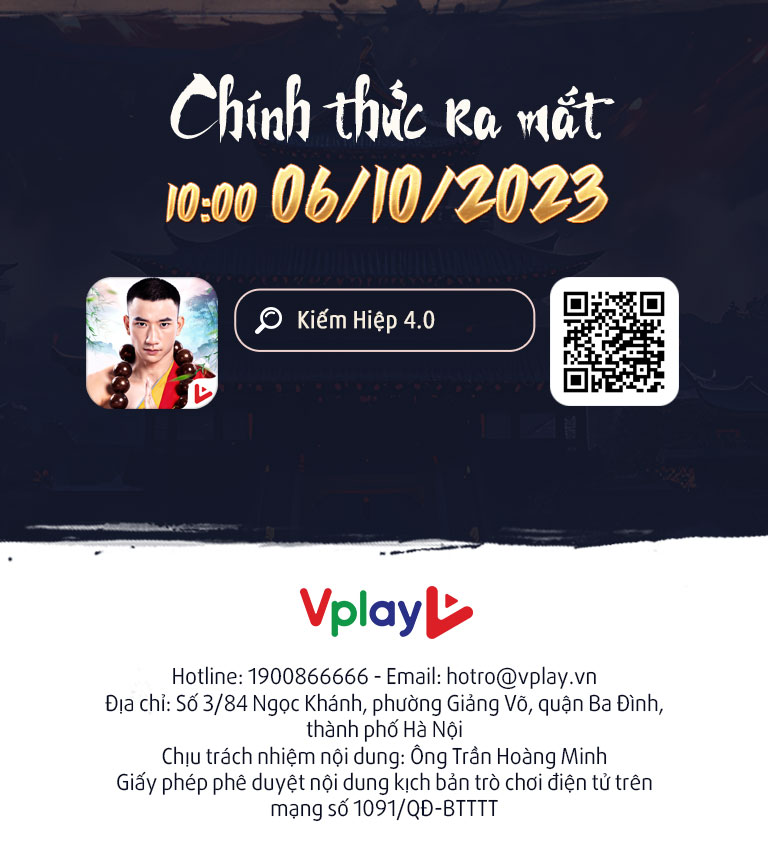
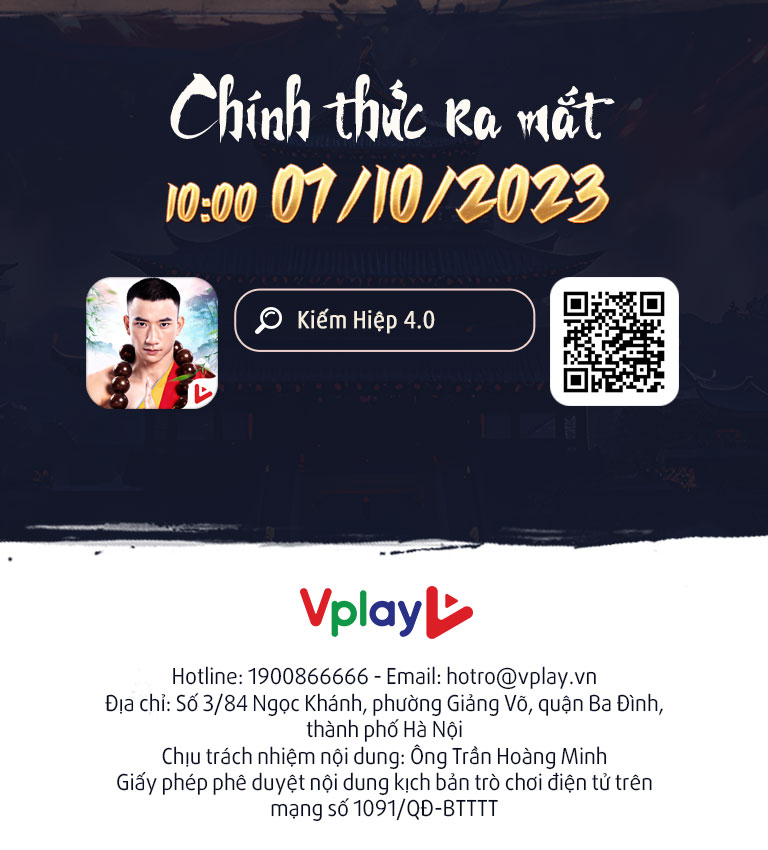
Minor updates

Changed region(s): [[0.375, 0.1835, 0.8125, 0.2753]]

diff --git a/sass/KH-LP-0823-mb.css b/sass/KH-LP-0823-mb.css
@@ -466,71 +466,82 @@ main {
   display: block;
 }
 
-.modal-dksom .modal-dialog {
-  max-width: 728px;
-  width: calc(728px * var(--ratio));
-  height: calc(689px * var(--ratio));
-}
-.modal-dksom .modal-dialog .modal-content {
-  background: url(../images/New/Page-4-Popup-DangKySom.png) no-repeat top center;
-  background-size: contain;
-  width: calc(728px * var(--ratio));
-  height: calc(689px * var(--ratio));
-}
-.modal-dksom .modal-dialog .modal-content .btn-primary {
-  background-color: transparent;
+.modal-dksom .modal-content {
+  background: url(../images/Floatbar/Float-Bar-Popup-BG.png) no-repeat top center;
   border: none;
-  width: calc(356px * var(--ratio));
-  height: calc(130px * var(--ratio));
-  box-shadow: none;
-}
-.modal-dksom .modal-dialog .modal-content .col-submit {
+  height: 471px;
+  width: 1200px;
+  margin: 0 auto;
   position: relative;
-  top: 8%;
-  right: 35%;
 }
-.modal-dksom .modal-dialog .modal-content .close {
-  background: url(../images/New/Page-4-btn-Close.png) no-repeat top center;
-  background-size: contain;
-  width: calc(56px * var(--ratio));
-  height: calc(53px * var(--ratio));
-  top: calc(50px * var(--ratio));
-  right: calc(60px * var(--ratio));
-}
-.modal-dksom .modal-dialog .modal-content .container {
-  margin: 0;
-  padding: 0;
-  margin-left: calc(304px * var(--ratio));
-  margin-top: calc(199px * var(--ratio));
-  width: calc(340px * var(--ratio));
-  height: calc(420px * var(--ratio));
-}
-.modal-dksom .modal-dialog .modal-content .row {
-  margin: 0;
-  height: calc(60px * var(--ratio));
-  margin-bottom: calc(20px * var(--ratio));
-}
-.modal-dksom .modal-dialog .modal-content .row .col-auto {
-  padding: 0;
-  width: 100%;
-}
-.modal-dksom .modal-dialog .modal-content .row input {
-  padding: 0;
-  margin-top: calc(13px * var(--ratio));
-  height: 100%;
-  width: 100%;
-  font-size: calc(37px * var(--ratio));
+.modal-dksom .modal-content .modal-body .close {
+  position: absolute;
+  top: -10px;
+  right: 20px;
+  width: 85px;
+  height: 85px;
+  background: url(../images/Floatbar/Float-Bar-Popup-Btn-Close.png) no-repeat top center;
   border: none;
+}
+.modal-dksom .modal-content .modal-body .content-dksom {
+  text-align: center;
+}
+.modal-dksom .modal-content .modal-body .content-dksom h4 {
+  font-size: 30px;
+  color: #101a66;
+  font-weight: 700;
+  text-transform: uppercase;
+}
+.modal-dksom .modal-content .modal-body .content-dksom h6 {
+  color: #101a66;
+  font-size: 22px;
+}
+.modal-dksom .modal-content .modal-body .content-dksom input {
+  border: 2px solid #101a66;
+  color: #101a66;
   background: transparent;
+  width: 80%;
+  margin: 0 auto;
+  height: 61px;
+  border-radius: 10px;
 }
-.modal-dksom .modal-dialog .modal-content .row-name {
-  padding-left: calc(15px * var(--ratio));
+.modal-dksom .modal-content .modal-body .content-dksom p {
+  font-size: 18px;
+  line-height: 1.6;
+  font-weight: 500;
+  color: #101a66;
 }
-.modal-dksom .modal-dialog .modal-content .row-phone {
-  margin-left: calc(-70px * var(--ratio));
+.modal-dksom .modal-content .modal-body .content-dksom table {
+  font-size: 18px;
+  line-height: 1.6;
+  font-weight: 500;
+  color: #101a66;
 }
-.modal-dksom .modal-dialog .modal-content .row-email {
-  margin-left: calc(-52px * var(--ratio));
+.modal-dksom .modal-content .modal-body .content-dksom .btn {
+  margin: 0 auto;
+  background: #101a66;
+  color: white;
+  font-weight: 700;
+  font-size: 24px;
+  margin-top: 0.5rem;
+  position: relative;
+}
+.modal-dksom .modal-content .modal-body .content-dksom .btn span.textsub {
+  position: absolute;
+  top: 50%;
+  left: 50%;
+  transform: translate(-50%, -50%);
+  color: white;
+  text-shadow: 1px 1px 2px #cc2717, 0px 0px 6px #81170d;
+  text-transform: uppercase;
+}
+.modal-dksom .modal-content .modal-body .content-dksom .btn-dangky {
+  background: transparent;
+  border: none;
+  transition: all 0.3s ease-in-out;
+}
+.modal-dksom .modal-content .modal-body .content-dksom .btn-dangky:hover {
+  filter: brightness(120%);
 }
 
 .modal-thele .modal-dialog {

diff --git a/sass/KH-LP-0823-mb.scss b/sass/KH-LP-0823-mb.scss
@@ -344,97 +344,26 @@ main {position: relative;}
   }
 }
 
-.modal-dksom
-{
-  .modal-dialog
-  {
-    max-width: 728px;
-    width: calc(728px * var(--ratio));
-    height: calc(689px * var(--ratio));
-
-    .modal-content
-    {
-    background: url(../images/New/Page-4-Popup-DangKySom.png) no-repeat top center;
-    background-size: contain;
-    width: calc(728px * var(--ratio));
-    height: calc(689px * var(--ratio));
-
-      .btn-primary
-      {
-        background-color: transparent;
-        border: none;
-        width: calc(356px * var(--ratio));
-        height: calc(130px * var(--ratio));
-        box-shadow: none;
-      }
-
-      .col-submit
-      {
-        position: relative;
-        top: 8%;
-        right: 35%;
-      }
-
-      .close
-      {
-        background: url(../images/New/Page-4-btn-Close.png) no-repeat top center;
-        background-size: contain;
-        width: calc(56px * var(--ratio));
-        height: calc(53px * var(--ratio));
-        top: calc(50px * var(--ratio));
-        right: calc(60px * var(--ratio));
-      }
-
-      .container
-      {
-        margin: 0;
-        padding: 0;
-        margin-left: calc(304px * var(--ratio));
-        margin-top: calc(199px * var(--ratio));
-        width: calc(340px * var(--ratio));
-        height: calc(420px * var(--ratio));
-      }
-
-      .row
-      {
-        margin: 0;
-        height: calc(60px * var(--ratio));
-        margin-bottom: calc(20px * var(--ratio));
-
-        .col-auto
-        {
-          padding: 0;
-          width: 100%;
+.modal-dksom{
+  .modal-content{background: url(../images/Floatbar/Float-Bar-Popup-BG.png) no-repeat top center;border:none;height:471px;width: 1200px;margin: 0 auto;position: relative;
+    .modal-body{
+      .close{position: absolute;top:-10px;right:20px;width: 85px;height: 85px;background: url(../images/Floatbar/Float-Bar-Popup-Btn-Close.png) no-repeat top center;border: none;}
+      .content-dksom{text-align: center;
+        h4{font-size: 30px;color: #101a66;font-weight: 700;text-transform: uppercase;}
+        h6{color: #101a66;font-size: 22px;}
+        input{border:2px solid #101a66;color: #101a66;background: transparent;width:80%;margin: 0 auto;height: 61px;border-radius: 10px;}
+        p{font-size: 18px;line-height: 1.6;font-weight: 500;color: #101a66;}
+        table{font-size: 18px;line-height: 1.6;font-weight: 500;color: #101a66;}
+        .btn{margin: 0 auto;background:#101a66;color: white;font-weight: 700;font-size: 24px;margin-top:0.5rem;position: relative;
+          span.textsub{position: absolute;top: 50%;left: 50%;transform: translate(-50%, -50%);color: white;text-shadow:1px 1px 2px #cc2717, 0px 0px 6px #81170d;text-transform: uppercase;}
+          }
+        .btn-dangky{background: transparent;border: none;transition: all 0.3s ease-in-out;
+          &:hover{filter: brightness(120%);}
         }
         
-        input
-        {
-          padding: 0;
-          margin-top: calc(13px * var(--ratio));
-          height:100%;
-          width: 100%;
-          font-size: calc(37px * var(--ratio));
-          border: none;
-          background: transparent;
-        }
-
-        
-      }
-
-      .row-name
-      {
-        padding-left: calc(15px * var(--ratio));
-      }
-      .row-phone
-      {
-        margin-left: calc(-70px * var(--ratio));
-      }
-      .row-email
-      {
-        margin-left: calc(-52px * var(--ratio));
       }
     }
-  } 
+  }
 }
 
 .modal-thele

diff --git a/index-T011-LandingPage-0823-Mobile.html b/index-T011-LandingPage-0823-Mobile.html
@@ -33,6 +33,29 @@
         </div><!-- /.modal-dialog -->
       </div><!-- /.modal -->
 
+          <!----Popup Chưa có Link button sticky-->
+    <div class="modal fade modal-dksom" id="chuacolink" tabindex="-1" role="dialog" aria-labelledby="myModalLabel" aria-hidden="true">
+      <div class="modal-dialog modal-xl modal-dialog-centered">
+        <div class="modal-content">
+          <div class="modal-body">
+            <button type="button" class="close" data-bs-dismiss="modal" aria-label="Close">
+            </button>
+            <div class="content-dksom">
+              <h4 class="pt-5 mt-5">
+                Game sẽ ra mắt vào 10h ngày 07/10/2023.
+                <br>
+                Hẹn gặp đại hiệp trong thế giới Kiếm Hiệp 4.0
+              </h4>
+              <a class="btn btn-dangky"  data-bs-dismiss="modal" aria-label="Close">
+                <span class="textsub">Quay lại</span>
+                <img src="images/Floatbar/Float-Bar-Popup-Btn-Back.png" alt="">
+              </a>
+            </div>   
+          </div>
+        </div><!-- /.modal-content -->
+      </div><!-- /.modal-dialog -->
+    </div><!-- /.modal -->
+
           <!---Char Anh Hùng Yến-->
     <div class="modal fade modal-popup" id="anhhungyen" tabindex="-1" role="dialog" aria-labelledby="myModalLabel" aria-hidden="true">
 			<div class="modal-dialog modal-xl  modal-dialog-centered" style="transform: translateY(-50%); top: 48%;">
@@ -412,12 +435,12 @@
         </ul>
         <ul class="downloadbar">
           <li>
-            <a href="#" class="appstore">
+            <a href="#" class="appstore" data-bs-toggle="modal" data-bs-target="#chuacolink">
               <img src="images/page3/Page-3-Btn-AppStore.png" alt="" class="appstore">
             </a>
           </li>
           <li>
-            <a href="#" class="googleplay">
+            <a href="#" class="googleplay" data-bs-toggle="modal" data-bs-target="#chuacolink">
               <img src="images/page3/Page-3-Btn-GooglePlay.png" alt=""  class="googleplay">
             </a>
           </li>
